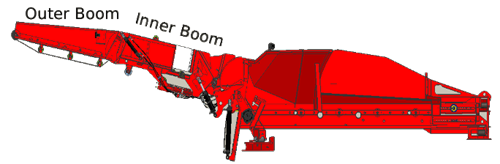
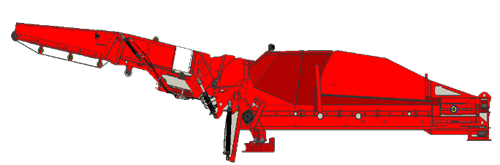
boom and table controls

diff --git a/6844/harvesterUI3.html b/6844/harvesterUI3.html
@@ -188,6 +188,16 @@
 			background-position: center;
 		}
 
+		button.plusSign {
+			background-image: url('plus_sign_20.png');
+			background-position: center;
+		}
+
+		button.minusSign {
+			background-image: url('minus_sign_20.png');
+			background-position: center;
+		}
+
 		button.arrowFwd {
 			background-image: url('arrow_fwd_20.png');
 			background-position: center;
@@ -598,44 +608,42 @@
 					</tr>
 					<tr>
 						<td class="controlL2">
-							<div>Intake</div>
+							<div><img src="tableControlsCleaningMode.png"></div>
 							<table>
 								<tr>
-									<td>
-										<div class="meterContainer"><meter class="meter-vertical" id='depth-meter'
-												min='0' low='20' high='50' max='100' optimum='60' value='64'></meter>
-										</div>
-									</td>
-									<td><button>+2</button><br>
-										<input class="spInput" value="64"><br>
-										<button>-2</button>
-									</td>
-									<td>
-										<button class="arrowUp"></button><br>
-										<button>AUTO</button><br>
-										<button class="arrowDown"></button><br>
-									</td>
+									<td>Roller Gap</td>
+									<td>Roller Height</td>
+									<td>Table Angle</td>
+									<td></td>
+									<td>Clod Roller</td>
+									<td>Segment Roller</td>
 								</tr>
-							</table>
-						</td>
-						<td class="controlL2">
-							<div>Primary</div>
-							<table>
 								<tr>
-									<td>
-										<div class="meterContainer"><meter class="meter-vertical" id='hump-meter'
-												min='0' low='20' high='50' max='100' optimum='60' value='36'></meter>
-										</div>
+									<td><button class="plusSign"></button></td>
+									<td><button class="plusSign"></button></td>
+									<td><button class="plusSign"></button></td>
+									<td></td>
+									<td><button class="arrowRev"></button></td>
+									<td><button class="arrowRev"></button></td>
+								</tr>
+								<tr>
+									<td><input class="spInput" value="24"></td>
+									<td><input class="spInput" value="32"></td>
+									<td><input class="spInput" value="68"></td>
+									<td></td>
+									<td><input class="spInput" value="124"></td>
+									<td><input class="spInput" value="132"></td>
+								</tr>
+								<tr>
+									<td><button class="minusSign"></button></td>
+									<td><button class="minusSign"></button></td>
+									<td><button class="minusSign"></button></td>
+									<td></td>
+									<td colspan="2">
+										<button class="active" style="border-radius: 10px 0 0 10px;">CLEAN</button>
+										<button class="" style="border-radius: 0 10px 10px 0;">TRANSPORT</button>
 									</td>
-									<td><button>+2</button><br>
-										<input class="spInput" value="36"><br>
-										<button>-2</button>
-									</td>
-									<td>
-										<button class="arrowUp"></button><br>
-										<button>AUTO</button><br>
-										<button class="arrowDown"></button><br>
-									</td>
+									
 								</tr>
 							</table>
 						</td>
@@ -648,93 +656,31 @@
 					</tr>
 					<tr>
 						<td class="controlL2">
-							<div>Intake</div>
+							<div><img src="BoomWithLabels.png"></div>
 							<table>
 								<tr>
-									<td>
-										<div class="meterContainer"><meter class="meter-vertical" id='depth-meter'
-												min='0' low='20' high='50' max='100' optimum='60' value='64'></meter>
-										</div>
-									</td>
-									<td><button>+2</button><br>
-										<input class="spInput" value="64"><br>
-										<button>-2</button>
-									</td>
-									<td>
-										<button class="arrowUp"></button><br>
-										<button>AUTO</button><br>
-										<button class="arrowDown"></button><br>
-									</td>
+									<td><button class="arrowUp"></button></td>
+									<td><button class="arrowUp"></button></td>
+									<td><button class="arrowRev"></button></td>
+									<td>Boom<br>Swing</td>
+									<td><button class="arrowFwd"></button></td>
+									<td><button class="arrowUp"></button></td>
 								</tr>
-							</table>
-						</td>
-						<td class="controlL2">
-							<div>Primary</div>
-							<table>
 								<tr>
-									<td>
-										<div class="meterContainer"><meter class="meter-vertical" id='hump-meter'
-												min='0' low='20' high='50' max='100' optimum='60' value='36'></meter>
-										</div>
-									</td>
-									<td><button>+2</button><br>
-										<input class="spInput" value="36"><br>
-										<button>-2</button>
-									</td>
-									<td>
-										<button class="arrowUp"></button><br>
-										<button>AUTO</button><br>
-										<button class="arrowDown"></button><br>
-									</td>
+									<td>Outer boom</td>
+									<td>Inner Boom</td>
+									<td></td>
+									<td></td>
+									<td></td>
+									<td>Boom Fold</td>
 								</tr>
-							</table>
-						</td>
-					</tr>
-				</table>
-				<table class="controlL1 hide" id="boom">
-					<tr>
-						<th class="controlHead" colspan="2">Boom</th>
-					</tr>
-					<tr>
-						<td class="controlL2">
-							<div>Intake</div>
-							<table>
 								<tr>
-									<td>
-										<div class="meterContainer"><meter class="meter-vertical" id='depth-meter'
-												min='0' low='20' high='50' max='100' optimum='60' value='64'></meter>
-										</div>
-									</td>
-									<td><button>+2</button><br>
-										<input class="spInput" value="64"><br>
-										<button>-2</button>
-									</td>
-									<td>
-										<button class="arrowUp"></button><br>
-										<button>AUTO</button><br>
-										<button class="arrowDown"></button><br>
-									</td>
-								</tr>
-							</table>
-						</td>
-						<td class="controlL2">
-							<div>Primary</div>
-							<table>
-								<tr>
-									<td>
-										<div class="meterContainer"><meter class="meter-vertical" id='hump-meter'
-												min='0' low='20' high='50' max='100' optimum='60' value='36'></meter>
-										</div>
-									</td>
-									<td><button>+2</button><br>
-										<input class="spInput" value="36"><br>
-										<button>-2</button>
-									</td>
-									<td>
-										<button class="arrowUp"></button><br>
-										<button>AUTO</button><br>
-										<button class="arrowDown"></button><br>
-									</td>
+									<td><button class="arrowDown"></button></td>
+									<td><button class="arrowDown"></button></td>
+									<td></td>
+									<td></td>
+									<td></td>
+									<td><button class="arrowDown"></button></td>
 								</tr>
 							</table>
 						</td>
